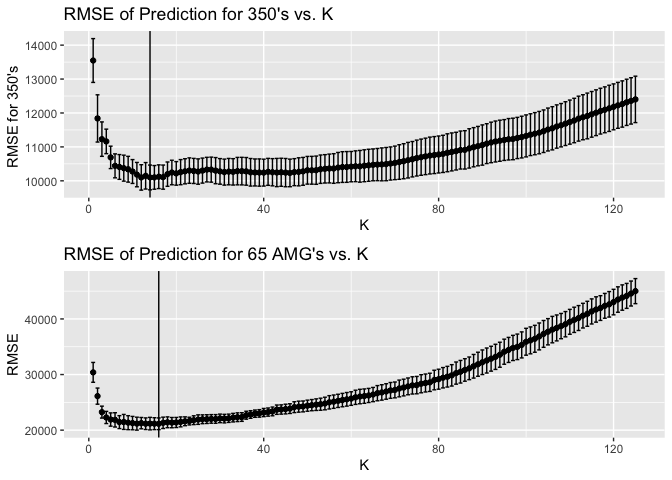
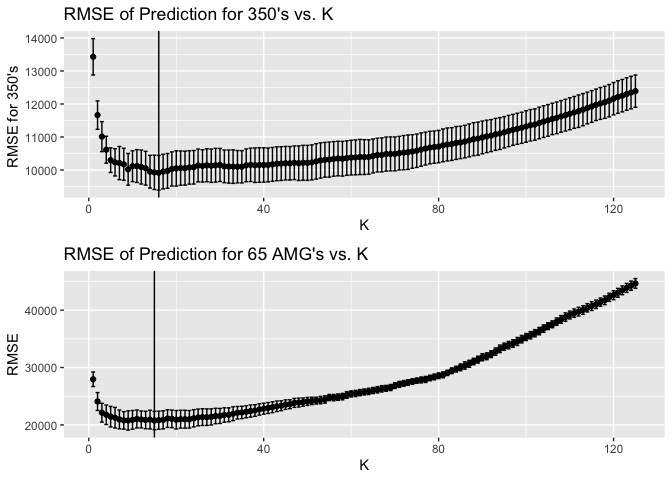
Update optimal K

diff --git a/Exercise_1.md b/Exercise_1.md
@@ -327,12 +327,12 @@ Figure 9: RMSE vs. K
 Thus, the graphs show that the optimal K for predicting 350’s prices
 with KNN method should be
 
-    ## [1] 14
+    ## [1] 16
 
 and the optimal K for predicting 65 AMG’s price with KNN method should
 be
 
-    ## [1] 16
+    ## [1] 15
 
 given they yield the smallest RMSEs respectively.
 
